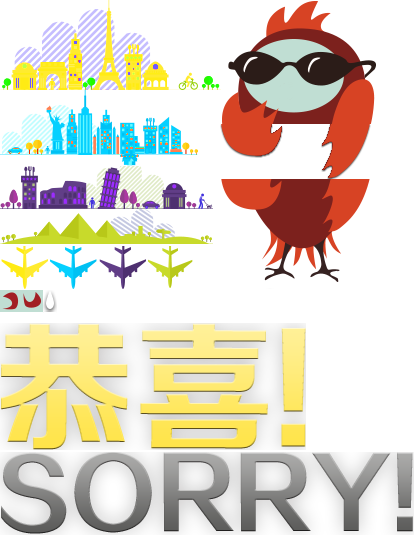
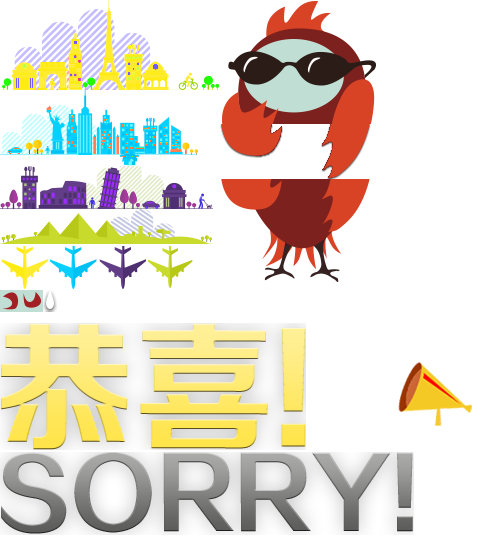
修完抽奖。

diff --git a/OnlnTest/Heivr/Mre/css/抽奖.css b/OnlnTest/Heivr/Mre/css/抽奖.css
@@ -105,6 +105,14 @@
 		height: 22px;
 	}
 
+	.cnApp_Sprite.cnApp_13 {
+		background-position: -306px -321px;
+		width: 166px;
+		height: 104px;
+		left: -105px;
+		top: 5px;
+	}
+
 	.cnApp_Sprite.cnApp_20 {
 		background-position: 0px -323px;
 		width: 306px;
@@ -204,24 +212,24 @@
 
 #k_MonsterWords {
 	position: absolute;
-	left: 580px;
+	left: 590px;
 	top: -50px;
 	font-size: 30px;
 	color: white;
-	-webkit-transform: rotateX(-10deg) rotateY(35deg);
-	-moz-transform: rotateX(-10deg) rotateY(35deg);
-	-ms-transform: rotateX(-10deg) rotateY(35deg);
-	-o-transform: rotateX(-10deg) rotateY(35deg);
-	transform: rotateX(-10deg) rotateY(35deg);
+	-webkit-transform: rotateX(-10deg) rotateY(42deg);
+	-moz-transform: rotateX(-10deg) rotateY(42deg);
+	-ms-transform: rotateX(-10deg) rotateY(42deg);
+	-o-transform: rotateX(-10deg) rotateY(42deg);
+	transform: rotateX(-10deg) rotateY(42deg);
 }
 
 	#k_MonsterWords.cnApp_Lt {
 		left: 136px;
-		-webkit-transform: rotateX(-10deg) rotateY(-35deg);
-		-moz-transform: rotateX(-10deg) rotateY(-35deg);
-		-ms-transform: rotateX(-10deg) rotateY(-35deg);
-		-o-transform: rotateX(-10deg) rotateY(-35deg);
-		transform: rotateX(-10deg) rotateY(-35deg);
+		-webkit-transform: rotateX(-10deg) rotateY(-42deg);
+		-moz-transform: rotateX(-10deg) rotateY(-42deg);
+		-ms-transform: rotateX(-10deg) rotateY(-42deg);
+		-o-transform: rotateX(-10deg) rotateY(-42deg);
+		transform: rotateX(-10deg) rotateY(-42deg);
 	}
 
 #k_SuccessDlg .cnApp_Congratulations {
@@ -314,6 +322,14 @@
 
 /* 头和环境 */
 
+body {
+	background-color: rgb(236, 48, 47);
+}
+
+.cnApp_DrawBody {
+	margin-top: 20px;
+}
+
 .cnApp_DrawHeader {
 	position: relative;
 	left: 0px;
@@ -339,17 +355,26 @@
 	.cnApp_DrawHeader .cnApp_CptnDiv {
 		position: absolute;
 		left: 0px;
-		top: 160px;
+		top: 150px;
 		width: 100%;
 		text-align: center;
 		/*padding-top: 160px;*/
 		z-index: 2;
 	}
 
+		.cnApp_DrawHeader .cnApp_CptnDiv .cnApp_ImgGrp {
+			display: inline-block;
+			position: relative;
+		}
+
+		.cnApp_DrawHeader .cnApp_CptnDiv .cnApp_ImgGrp .cnApp_ChouChouChou {
+			left: -150px;
+		}
+
 	.cnApp_DrawHeader .cnApp_Join {
 		position: absolute;
 		left: 0px;
-		bottom: 0px;
+		bottom: -30px;
 		width: 100%;
 		text-align: center;
 		font-size: 48px;
@@ -366,19 +391,19 @@
 		cursor: pointer;
 	}
 
-	.cnApp_Join .cnApp_People {
-		margin-top: 30px;
-		text-align: center;
-		font-size: 16px;
-		color: rgb(255, 203, 0);
-	}
+.cnApp_Join .cnApp_People {
+	margin-top: 30px;
+	text-align: center;
+	font-size: 16px;
+	color: rgb(255, 203, 0);
+}
 
-	.cnApp_Join .cnApp_Num {
-		background-color: rgb(255, 203, 0);
-		color: rgb(236, 48, 47);
-		padding: 0px 10px;
-		margin-right: 1em;
-	}
+.cnApp_Join .cnApp_Num {
+	background-color: rgb(255, 203, 0);
+	color: rgb(236, 48, 47);
+	padding: 0px 10px;
+	margin-right: 1em;
+}
 
 .cnApp_RedBkgd {
 	background-color: rgb(236, 48, 47);
@@ -616,9 +641,9 @@
 		top: -20px;
 	}
 
-	.cnApp_Env.cnApp_Mbl .cnApp_ActTime img {
-		width: 100%;
-	}
+		.cnApp_Env.cnApp_Mbl .cnApp_ActTime img {
+			width: 100%;
+		}
 
 .cnApp_Mbl .cnApp_DrawHeader {
 	background-size: 100%;
@@ -721,17 +746,17 @@
 	transform-origin: left top;
 }
 
-.cnApp_Env.cnApp_Mbl .cnApp_DlgDiv .cnApp_ClsDiv {
-	font-size: 48px;
-}
+	.cnApp_Env.cnApp_Mbl .cnApp_DlgDiv .cnApp_ClsDiv {
+		font-size: 48px;
+	}
 
-.cnApp_Env.cnApp_Mbl .cnApp_DlgDiv .cnApp_BtnDiv {
-	text-align: left;
-}
+	.cnApp_Env.cnApp_Mbl .cnApp_DlgDiv .cnApp_BtnDiv {
+		text-align: left;
+	}
 
-.cnApp_Env.cnApp_Mbl .cnApp_DlgDiv .cnApp_Ctnt .cnApp_Btn {
-	/*margin: 0px;*/
-}
+	.cnApp_Env.cnApp_Mbl .cnApp_DlgDiv .cnApp_Ctnt .cnApp_Btn {
+		/*margin: 0px;*/
+	}
 
 .cnApp_Env.cnApp_Mbl .cnApp_Join .cnApp_People {
 	font-size: 12px;

diff --git a/OnlnTest/Heivr/Mre/PC_抽奖.html b/OnlnTest/Heivr/Mre/PC_抽奖.html
@@ -276,7 +276,10 @@
 			<img id="k_Earth" src="images/抽奖/地球.png" />
 		</div>
 		<div class="cnApp_CptnDiv">
-			<img src="images/抽奖/标题文字.png" class="" />
+			<div class="cnApp_ImgGrp">
+				<img src="images/抽奖/标题文字.png" class="" />
+				<img src="images/抽奖/chouchouchou.png" class="cnApp_AbsPos cnApp_ChouChouChou" />
+			</div>
 		</div>
 
 		<div class="cnApp_Join">
@@ -288,7 +291,7 @@
 			</div>
 		</div>
 	</div>
-	<div class="cnApp_RedBkgd">
+	<div class="cnApp_RedBkgd cnApp_DrawBody">
 		<div class="app-wrapper w-960">
 			<div class="cnApp_Env cnApp_PC">
 
@@ -316,23 +319,23 @@
 						<div class="cnApp_AbsPos_RtTp cnApp_Cptn">活动介绍</div>
 						<div class="cnApp_AbsPos_RtBm cnApp_Sprite cnApp_4"></div>
 						<p>
-							分权宝“注册抽大奖，送房游全球”活动于2015年1月10日正式开启！
+							分权宝网络抽聘“分权宝全球度假体验师”活动于2015年1月20日0时正式启动！
 						</p>
 						<p>
-							活动开启当天，只要在18:00前通过微信平台参与抽奖活动的注册会员，都有可能中奖。届时，我们将在全国房地产经理人联合会年会现场，
+							首位“分权宝全球度假体验师”诞生于2015年1月10日，由全经联执行主席兼秘书长杨乐渝先生在全国房地产经理人联合会年会现场抽聘产生。
 						</p>
 						<p>
-							由全经联执行主席兼秘书长杨乐渝先生抽出第一天的第一位得奖者，成为分权宝首位“分权宝免费度假体验师”。
+							&nbsp;
 						</p>
 						<p>
-							活动从2015年1月10日至3月16日。每天产生一名中奖者，成为分权宝66位度假体验师中的一员。
+							活动从2015年1月20日至3月26日，总共抽聘66位“分权宝全球度假体验师”。
 						</p>
 						<p>
-							还等什么，赶紧加入我们，体验“注册抽大奖，送房游全球”的快感吧！
+							梦想成为度假体验师的小伙伴们，还等什么，赶紧加入我们，体验"注册抽大奖，送房游全球"的快感吧！
 						</p>
 					</div>
 					<div id="k_ViewDetails" class="cnApp_Sect cnApp_BtnDiv">
-						<span class="cnApp_Btn">查看活动详情</span>
+						<span class="cnApp_Btn">点击查看活动详情</span>
 					</div>
 				</div>
 
@@ -426,6 +429,7 @@
 						<div id="k_MonsterHead" class="cnApp_AbsPos_LtTp ">
 							<div class="cnApp_AbsPos_LtTp cnApp_Sprite cnApp_8"></div>
 							<div class="cnApp_AbsPos_LtTp cnApp_Sprite cnApp_10"></div>
+							<div class="cnApp_AbsPos_LtTp cnApp_Sprite cnApp_13"></div>
 						</div>
 						<div id="k_MonsterWords" class="">分享可获得神秘大奖哦！</div>
 

diff --git a/OnlnTest/Heivr/Mre/抽奖.html b/OnlnTest/Heivr/Mre/抽奖.html
@@ -146,13 +146,19 @@
 		<div class="cnApp_Sect cnApp_Introduction">
 			<h2 class="cnApp_TextAln_Cen"><span class="cnApp_CptnLab">活动介绍</span></h2>
 			<p>
-				分权宝“注册抽大奖，送房游全球”活动于2015年1月10日正式开启！活动开启当天，只要在18:00前通过微信平台参与抽奖活动的注册会员，都有可能中奖。
-			<p>
-			<p>
-				届时，我们将在全国房地产经理人联合会年会现场，由全经联执行主席兼秘书长杨乐渝先生抽出第一天的第一位得奖者，成为分权宝首位“分权宝免费度假体验师”。
+				分权宝网络抽聘“分权宝全球度假体验师”活动于2015年1月20日0时正式启动！
 			</p>
 			<p>
-				活动从2015年1月10日至3月16日。每天产生一名中奖者，成为分权宝66位度假体验师中的一员。还等什么，赶紧加入我们，体验“注册抽大奖，送房游全球”的快感吧！
+				首位“分权宝全球度假体验师”诞生于2015年1月10日，由全经联执行主席兼秘书长杨乐渝先生在全国房地产经理人联合会年会现场抽聘产生。
+			</p>
+			<p>
+				&nbsp;
+			</p>
+			<p>
+				活动从2015年1月20日至3月26日，总共抽聘66位“分权宝全球度假体验师”。
+			</p>
+			<p>
+				梦想成为度假体验师的小伙伴们，还等什么，赶紧加入我们，体验"注册抽大奖，送房游全球"的快感吧！
 			</p>
 		</div>
 

diff --git a/OnlnTest/Heivr/Mre/js/抽奖.js b/OnlnTest/Heivr/Mre/js/抽奖.js
@@ -121,7 +121,7 @@
 
 				var i_ImgWidPct = 40;
 				var i_EarthImgAr = 454 / 435;
-				var i_HintImgAr = 523 / 174;
+				var i_HintImgAr = 525 / 225;
 
 				var l_EarthImgWid = Math.round(nWse.stDomUtil.cGetVwptWid() * i_ImgWidPct / 100);
 				var l_EarthImgHgt = Math.round(l_EarthImgWid / i_EarthImgAr);
